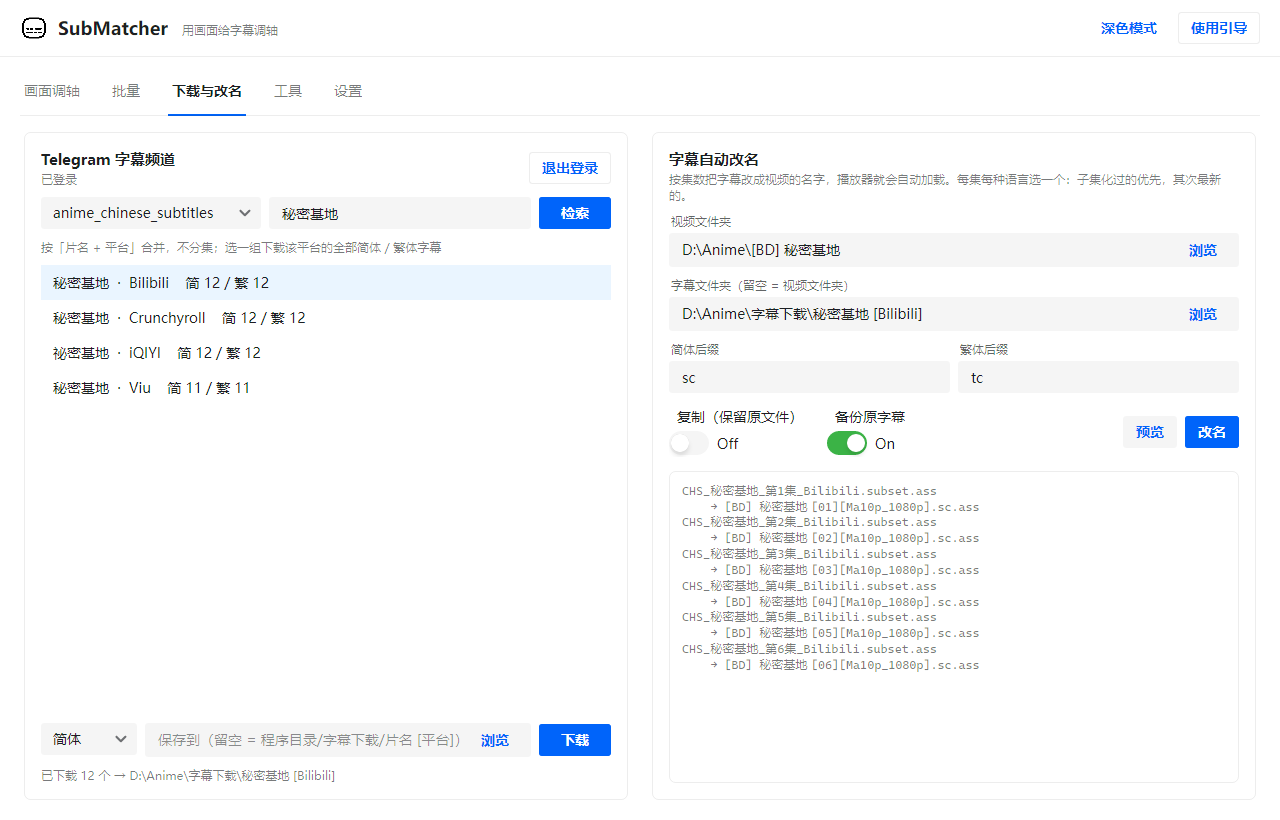
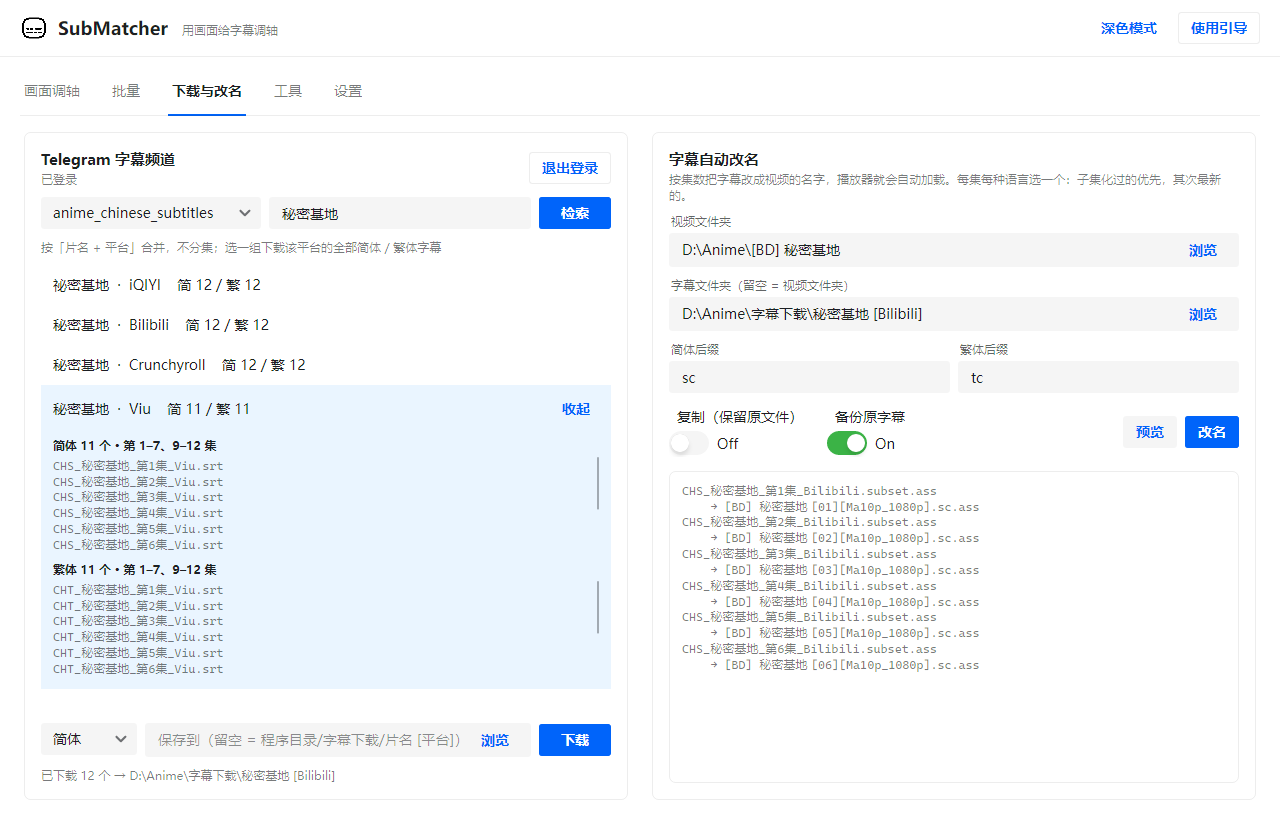
字幕检索：合并更多命名方式；结果可展开查看文件、收起
- 合并规则：认得语言写在末尾的文件名
  - 「葬送的芙莉莲_EP14.BG.zh-Hans.srt」：.zh-Hans / .zh-Hant 是语言，点号分隔的 BG 是平台，不再每个文件单独成组
  - 「葬送的芙莉莲 12_简体中文.srt」：「简体中文 / 繁体中文」是语言不是平台，简繁合成一组
  - 实测「葬送的芙莉莲」从 12 组合并为 6 组（第二季仍单独成组）
- 检索结果交互：点某一组展开，按简体 / 繁体列出文件，并显示集数摘要（如「第 1–7、9–12 集」，缺集一眼可见）；
  右侧「收起」按钮折叠，再点这一行重新展开；选另一组时上一组自动折叠；文件列表限高，其余结果保持在视野里
- 组内文件按集数排序（第 2 集在第 10 集前）
- 命令行 tg search 加 --files，列出每组包含的文件
- 测试：新增真实文件名的解析用例、集数排序与缺集摘要、GUI 展开 / 收起（鼠标点击模拟），共 55 个；README 截图更新

Changed region(s): [[0.0312, 0.3354, 0.25, 0.8232], [0.4375, 0.4878, 0.4688, 0.5183]]

diff --git a/src/SubMatcher.Gui/MainWindow.Subs.cs b/src/SubMatcher.Gui/MainWindow.Subs.cs
@@ -7,6 +7,7 @@ using Avalonia.Interactivity;
 using Avalonia.Media.Imaging;
 using Avalonia.Platform;
 using Avalonia.Threading;
+using Avalonia.VisualTree;
 using SubMatcher.Core;
 
 namespace SubMatcher.Gui;
@@ -230,13 +231,76 @@ public partial class MainWindow
             // Progress must be created here on the UI thread: inside Task.Run it would call back on the thread pool.
             var found = new Progress<int>(n => TgLog.Text = $"检索中… {n} 个文件");
             var files = await Task.Run(() => tg.Search(channel, q, found));
-            _groups = TgSubs.Group(files);
-            TgGroups.ItemsSource = _groups.Select(Describe).ToList();
-            TgGroups.SelectedIndex = _groups.Count > 0 ? 0 : -1;
+            ShowGroups(TgSubs.Group(files));
             TgLog.Text = _groups.Count == 0 ? "没找到。换个关键词，简体 / 繁体片名都试试" : $"{files.Count} 个文件，合并为 {_groups.Count} 组";
         }
         catch (Exception ex) when (ex is not OperationCanceledException) { TgLog.Text = "检索失败：" + ex.Message; }
         finally { TgSearchBtn.IsEnabled = TgDownloadBtn.IsEnabled = true; }
+    }
+
+    /// <summary>Result list: one row per group; the selected row expands to list its files, "收起" folds it back.</summary>
+    internal void ShowGroups(List<TgGroup> groups)
+    {
+        _groups = groups;
+        TgGroups.ItemsSource = groups.Select(GroupItem).ToList();
+        TgGroups.SelectedIndex = groups.Count > 0 ? 0 : -1;
+    }
+
+    Control GroupItem(TgGroup g)
+    {
+        var detail = new StackPanel { Spacing = 4, Margin = new(0, 8, 0, 4), IsVisible = false };
+        foreach (var (label, files) in new[] { ("简体", g.Chs), ("繁体", g.Cht), ("其他", g.Other) })
+        {
+            if (files.Count == 0) continue;
+            var eps = TgSubs.EpisodeSummary(files);
+            detail.Children.Add(new TextBlock
+            {
+                Text = $"{label} {files.Count} 个{(eps.Length > 0 ? " · " + eps : "")}", FontWeight = Avalonia.Media.FontWeight.SemiBold, FontSize = 12,
+                Margin = new(0, 4, 0, 0), TextWrapping = Avalonia.Media.TextWrapping.Wrap,
+            });
+            var list = new SelectableTextBlock
+            {
+                Text = string.Join("\n", files.Select(f => f.Name)), FontSize = 12, TextWrapping = Avalonia.Media.TextWrapping.Wrap,
+                FontFamily = new Avalonia.Media.FontFamily("Cascadia Mono,Consolas,Menlo,monospace"),
+            };
+            list.Bind(TextBlock.ForegroundProperty, list.GetResourceObservable("SemiColorText2"));
+            // A season is dozens of names: keep the row short so the other results stay in view.
+            detail.Children.Add(new ScrollViewer { Content = list, MaxHeight = 96 });
+        }
+        var collapse = new Button
+        {
+            Content = "收起", Theme = this.FindResource("BorderlessButton") as Avalonia.Styling.ControlTheme,
+            Padding = new(8, 0), IsVisible = false, VerticalAlignment = Avalonia.Layout.VerticalAlignment.Center,
+        };
+        var header = new Avalonia.Controls.Grid { ColumnDefinitions = new("*,Auto"), MinHeight = 24 };
+        header.Children.Add(new TextBlock { Text = Describe(g), VerticalAlignment = Avalonia.Layout.VerticalAlignment.Center, TextTrimming = Avalonia.Media.TextTrimming.CharacterEllipsis });
+        Avalonia.Controls.Grid.SetColumn(collapse, 1);
+        header.Children.Add(collapse);
+        var item = new StackPanel { Children = { header, detail } };
+        collapse.Click += (_, e) => { SetExpanded(item, false); e.Handled = true; };
+        // Tapping a folded row (already selected, so no SelectionChanged) opens it again.
+        item.Tapped += (_, e) =>
+        {
+            if (e.Source is Visual v && v.FindAncestorOfType<Button>(true) == collapse) return;
+            if (!detail.IsVisible) SetExpanded(item, true);
+        };
+        return item;
+    }
+
+    static void SetExpanded(StackPanel item, bool on)
+    {
+        var detail = item.Children[1];
+        if (detail.IsVisible == on) return;
+        detail.IsVisible = on;
+        ((Avalonia.Controls.Grid)item.Children[0]).Children[1].IsVisible = on;
+        if (on) _ = new DropDownReveal { Duration = TimeSpan.FromMilliseconds(160) }.Start(null, detail, true, default);
+    }
+
+    void TgGroupSelected(object? sender, SelectionChangedEventArgs e)
+    {
+        e.Handled = true; // don't bubble up to the tab control
+        foreach (var item in (TgGroups.ItemsSource as IEnumerable<Control>)?.OfType<StackPanel>() ?? [])
+            SetExpanded(item, item == TgGroups.SelectedItem);
     }
 
     async void TgDownload(object? sender, RoutedEventArgs e)

diff --git a/tests/SubMatcher.Tests/GuiTests.cs b/tests/SubMatcher.Tests/GuiTests.cs
@@ -238,16 +238,43 @@ public class GuiTests
 
         if (Environment.GetEnvironmentVariable("SUBMATCHER_SHOTS") is { } shots)
         {
-            w.FindControl<ListBox>("TgGroups")!.ItemsSource = new[]
-            {
-                "遭到流放的转生重骑士凭借游戏知识大开无双  ·  Viu    简 13 / 繁 13",
-                "遭到流放的轉生重騎士憑藉遊戲知識大開無雙  ·  iQIYI    简 13 / 繁 13",
-                "遭到流放的转生重骑士凭借游戏知识大开无双  ·  meWATCH    简 13 / 繁 13",
-            };
-            w.FindControl<ListBox>("TgGroups")!.SelectedIndex = 0;
             Pump();
             Save(w, shots, "subs-page.png");
         }
+    }
+
+    [AvaloniaFact]
+    public void SearchResultsExpandAndCollapse()
+    {
+        var w = NewWindow(tourDone: true);
+        w.FindControl<TabControl>("Tabs")!.SelectedItem = w.FindControl<TabItem>("TabSubs");
+        Pump();
+        w.ShowGroups(TgSubs.Group([
+            new(1, "CHS 葬送的芙莉莲 01_meWATCH.srt", 1), new(2, "CHT 葬送的芙莉莲 01_meWATCH.srt", 1),
+            new(3, "葬送的芙莉莲_EP01.BG.zh-Hans.srt", 1), new(4, "葬送的芙莉莲_EP01.BG.zh-Hant.srt", 1),
+        ]));
+        Pump();
+        var list = w.FindControl<ListBox>("TgGroups")!;
+        var items = ((IEnumerable<Control>)list.ItemsSource!).Cast<StackPanel>().ToList();
+        Assert.Equal(2, items.Count);
+        bool Open(StackPanel p) => p.Children[1].IsVisible;
+        Button Fold(StackPanel p) => (Button)((Grid)p.Children[0]).Children[1];
+        void ClickAt(Visual v, double x, double y)
+        {
+            var pt = v.TranslatePoint(new Avalonia.Point(x, y), w)!.Value;
+            w.MouseDown(pt, MouseButton.Left); w.MouseUp(pt, MouseButton.Left); Pump();
+        }
+        Assert.True(Open(items[0]));   // first result opens with its file list
+        Assert.Contains("CHS 葬送的芙莉莲 01_meWATCH.srt", ((SelectableTextBlock)items[0].Children[1].GetVisualDescendants().OfType<SelectableTextBlock>().First()).Text);
+        ClickAt(Fold(items[0]), 5, 5); // 收起
+        Assert.False(Open(items[0]));
+        Assert.Equal(0, list.SelectedIndex); // still the download target
+        ClickAt(items[0], 10, 8);      // tap the folded row → open again
+        Assert.True(Open(items[0]));
+        ClickAt(items[1], 10, 8);      // another row: it opens, the first folds
+        Assert.Equal(1, list.SelectedIndex);
+        Assert.True(Open(items[1]));
+        Assert.False(Open(items[0]));
     }
 
     static void Save(Window w, string dir, string name) => w.CaptureRenderedFrame()?.Save(Path.Combine(dir, name));
@@ -306,13 +333,15 @@ public class GuiTests
             w.FindControl<TextBlock>("TgStatus")!.Text = "已登录";
             w.FindControl<Button>("TgLoginBtn")!.Content = "退出登录";
             w.FindControl<TextBox>("TgQuery")!.Text = "秘密基地";
-            var groups = w.FindControl<ListBox>("TgGroups")!;
-            groups.ItemsSource = new[]
-            {
-                "秘密基地  ·  Bilibili    简 12 / 繁 12", "秘密基地  ·  Crunchyroll    简 12 / 繁 12",
-                "祕密基地  ·  iQIYI    简 12 / 繁 12", "秘密基地  ·  Viu    简 11 / 繁 11",
-            };
-            groups.SelectedIndex = 0;
+            // a realistic result: 12 episodes on 4 platforms, the first one expanded
+            List<TgFile> files = [];
+            foreach (var (plat, title, n) in new[] { ("Bilibili", "秘密基地", 12), ("Crunchyroll", "秘密基地", 12), ("iQIYI", "祕密基地", 12), ("Viu", "秘密基地", 12) })
+                for (int ep = 1; ep <= n; ep++)
+                    if (plat != "Viu" || ep != 8) // one missing episode, to show the gap in the summary
+                    foreach (var lang in new[] { "CHS", "CHT" })
+                        files.Add(new(files.Count, $"{lang}_{title}_第{ep}集_{plat}.srt", 30000));
+            w.ShowGroups(TgSubs.Group(files));
+            w.FindControl<ListBox>("TgGroups")!.SelectedIndex = 3; // Viu, the one with a missing episode
             w.FindControl<TextBlock>("TgLog")!.Text = @"已下载 12 个 → D:\Anime\字幕下载\秘密基地 [Bilibili]";
             w.FindControl<TextBox>("RenVideos")!.Text = @"D:\Anime\[BD] 秘密基地";
             w.FindControl<TextBox>("RenSubs")!.Text = @"D:\Anime\字幕下载\秘密基地 [Bilibili]";

diff --git a/src/SubMatcher.Core/Telegram.cs b/src/SubMatcher.Core/Telegram.cs
@@ -26,8 +26,15 @@ public static partial class TgSubs
     [GeneratedRegex(@"^\s*(CHS|CHT|简|簡|繁)[\s_\-]+", RegexOptions.IgnoreCase)]
     private static partial Regex LangPrefix();
 
+    // Language as the last part instead: "…_EP14.BG.zh-Hans", "… 12_简体中文", "….sc"
+    [GeneratedRegex(@"[\s_.\-]+(zh-?Hans|zh-?CN|zh-?SG|chs|sc|简体中文|簡體中文|简体|簡體|简中|簡中|zh-?Hant|zh-?TW|zh-?HK|cht|tc|繁体中文|繁體中文|繁体|繁體|繁中)$", RegexOptions.IgnoreCase)]
+    private static partial Regex LangSuffix();
+
+    [GeneratedRegex(@"^(zh-?Hans|zh-?CN|zh-?SG|chs|sc|简|簡)", RegexOptions.IgnoreCase)]
+    private static partial Regex SimplifiedTag();
+
     // Episode marks at the end of the title: 第13集 / 第7話 / EP12 / E05 / 12 / 12.5 / 12v2
-    [GeneratedRegex(@"[\s_\-]*(?:第\s*\d+(?:\.\d+)?\s*[話话集回]|EP?\s*\d+(?:\.\d+)?|\d+(?:\.\d+)?)(?:v\d)?\s*$", RegexOptions.IgnoreCase)]
+    [GeneratedRegex(@"[\s_.\-]*(?:第\s*\d+(?:\.\d+)?\s*[話话集回]|EP?\s*\d+(?:\.\d+)?|\d+(?:\.\d+)?)(?:v\d)?\s*$", RegexOptions.IgnoreCase)]
     private static partial Regex EpisodeTail();
 
     [GeneratedRegex(@"[\s_]+")]
@@ -43,16 +50,43 @@ public static partial class TgSubs
             lang = m.Groups[1].Value.ToUpperInvariant() switch { "CHS" or "简" or "簡" => "CHS", _ => "CHT" };
             name = name[m.Length..];
         }
+        else if (LangSuffix().Match(name) is { Success: true } s)
+        {
+            lang = SimplifiedTag().IsMatch(s.Groups[1].Value) ? "CHS" : "CHT";
+            name = name[..s.Index];
+        }
         string platform = "";
-        int us = name.LastIndexOf('_');
-        // "…_iQIYI" is a platform, "…_第13集" / "…_12" is not
-        if (us > 0 && EpisodeTail().Match(name[us..]) is not { Success: true, Index: 0 })
+        // platform after the last "_" or "." ("…_iQIYI", "…_EP14.BG"); "…_第13集" / "…_12" is not one
+        int us = name.LastIndexOfAny(['_', '.']);
+        if (us > 0 && name[(us + 1)..].Any(char.IsLetter) && EpisodeTail().Match(name[us..]) is not { Success: true, Index: 0 })
         {
             platform = name[(us + 1)..].Trim();
             name = name[..us];
         }
         var title = Spaces().Replace(EpisodeTail().Replace(name, ""), " ").Trim(' ', '-', '_');
         return (lang, title.Length > 0 ? title : name.Trim(), platform);
+    }
+
+    static double EpisodeNum(TgFile f) => Sync.EpisodeOf(f.Name) is { } e ? double.Parse(e, System.Globalization.CultureInfo.InvariantCulture) : double.MaxValue;
+
+    /// <summary>Files in episode order (第2集 before 第10集).</summary>
+    public static List<TgFile> ByEpisode(IEnumerable<TgFile> files) =>
+        files.OrderBy(EpisodeNum).ThenBy(f => f.Name, StringComparer.OrdinalIgnoreCase).ToList();
+
+    /// <summary>"第 1–7、9–12 集" — gaps show at a glance; "" when no episode numbers are found.</summary>
+    public static string EpisodeSummary(IEnumerable<TgFile> files)
+    {
+        var eps = files.Select(EpisodeNum).Where(e => e != double.MaxValue).Distinct().Order().ToList();
+        if (eps.Count == 0) return "";
+        var parts = new List<string>();
+        for (int i = 0; i < eps.Count;)
+        {
+            int j = i;
+            while (j + 1 < eps.Count && eps[j + 1] == eps[j] + 1) j++;
+            parts.Add(j == i ? $"{eps[i]}" : $"{eps[i]}–{eps[j]}");
+            i = j + 1;
+        }
+        return $"第 {string.Join("、", parts)} 集";
     }
 
     /// <summary>Merge search hits by (title, platform). Reposted files keep only the newest copy.</summary>
@@ -64,7 +98,7 @@ public static partial class TgSubs
             .GroupBy(x => (x.P.Title.ToLowerInvariant(), x.P.Platform.ToLowerInvariant()))
             .Select(g =>
             {
-                List<TgFile> Of(string lang) => g.Where(x => x.P.Lang == lang).Select(x => x.File).OrderBy(f => f.Name, StringComparer.OrdinalIgnoreCase).ToList();
+                List<TgFile> Of(string lang) => ByEpisode(g.Where(x => x.P.Lang == lang).Select(x => x.File));
                 var first = g.First().P;
                 return new TgGroup(first.Title, first.Platform, Of("CHS"), Of("CHT"), Of(""));
             })

diff --git a/src/SubMatcher.Cli/Program.cs b/src/SubMatcher.Cli/Program.cs
@@ -152,7 +152,10 @@ try
             if (sub == "search")
             {
                 for (int i = 0; i < groups.Count; i++)
-                    Console.WriteLine($"{i + 1,3}. {groups[i].Title}  [{(groups[i].Platform is { Length: > 0 } pl ? pl : "未知平台")}]  简 {groups[i].Chs.Count} / 繁 {groups[i].Cht.Count}{(groups[i].Other.Count > 0 ? $" / 其他 {groups[i].Other.Count}" : "")}");
+                {
+                        Console.WriteLine($"{i + 1,3}. {groups[i].Title}  [{(groups[i].Platform is { Length: > 0 } pl ? pl : "未知平台")}]  简 {groups[i].Chs.Count} / 繁 {groups[i].Cht.Count}{(groups[i].Other.Count > 0 ? $" / 其他 {groups[i].Other.Count}" : "")}");
+                    if (Flag("files")) foreach (var f in (List<TgFile>)[.. groups[i].Chs, .. groups[i].Cht, .. groups[i].Other]) Console.WriteLine($"       {f.Name}");
+                }
                 return 0;
             }
             if (sub != "download") { Usage(); return 2; }
@@ -277,7 +280,7 @@ static void Need(List<string> pos, int n, string usage)
 
 static (List<string>, Dictionary<string, string>) ParseArgs(string[] a)
 {
-    string[] flags = ["no-snap", "hwaccel", "no-cache", "no-log", "subset", "r", "recursive", "in-place", "strict", "clean", "copy", "no-backup", "dry-run"];
+    string[] flags = ["no-snap", "hwaccel", "no-cache", "no-log", "subset", "r", "recursive", "in-place", "strict", "clean", "copy", "no-backup", "dry-run", "files"];
     var pos = new List<string>();
     var opt = new Dictionary<string, string>();
     for (int i = 0; i < a.Length; i++)
@@ -322,7 +325,7 @@ static void Usage() => Console.WriteLine("""
         简繁转换（繁化姬 https://zhconvert.org）：sc 简体化 / tc 繁体化 / cn 中国化 / tw 台湾化 / hk 香港化
         输出文件名里的语言标记会跟着换（CHS→CHT、.sc→.tc），没有标记就加上
     submatcher-cli tg login [--phone +86…] | logout      Telegram 扫码或手机号登录 / 退出（会话存在程序目录）
-    submatcher-cli tg search <关键词> [--channel anime_chinese_subtitles] [--proxy socks5://主机:端口]
+    submatcher-cli tg search <关键词> [--files] [--channel anime_chinese_subtitles] [--proxy socks5://主机:端口]
         在字幕频道里检索，按「片名 + 平台」合并，列出简/繁数量（不分集）
     submatcher-cli tg download <关键词> [--pick N] [--lang sc|tc|all] [-o 目录]
         下载第 N 组的简体/繁体/全部字幕

diff --git a/tests/SubMatcher.Tests/SubsTests.cs b/tests/SubMatcher.Tests/SubsTests.cs
@@ -13,6 +13,13 @@ public class SubsTests
     [InlineData("CHS 終末起點第二季  05_Bilibili.srt", "CHS", "終末起點第二季", "Bilibili")]
     [InlineData("CHS 尼古喵喵 EP12_iQIYI.srt", "CHS", "尼古喵喵", "iQIYI")]
     [InlineData("某番_第03集.srt", "", "某番", "")]
+    [InlineData("葬送的芙莉莲_EP14.BG.zh-Hans.srt", "CHS", "葬送的芙莉莲", "BG")]
+    [InlineData("葬送的芙莉莲_EP09.BG.zh-Hant.srt", "CHT", "葬送的芙莉莲", "BG")]
+    [InlineData("葬送的芙莉莲 12_简体中文.srt", "CHS", "葬送的芙莉莲", "")]
+    [InlineData("葬送的芙莉莲 12_繁体中文.srt", "CHT", "葬送的芙莉莲", "")]
+    [InlineData("CHS 葬送的芙莉莲2 05_meWATCH.srt", "CHS", "葬送的芙莉莲2", "meWATCH")]
+    [InlineData("CHS_片名_12.5.srt", "CHS", "片名", "")]
+    [InlineData("CHS_Dr.STONE_第1集_Bilibili.srt", "CHS", "Dr.STONE", "Bilibili")]
     public void ParsesChannelFileNames(string name, string lang, string title, string platform)
         => Assert.Equal((lang, title, platform), TgSubs.Parse(name));
 
@@ -31,6 +38,16 @@ public class SubsTests
         Assert.Equal([1, 4], viu.Chs.Select(f => f.Id));
         Assert.Equal([2], viu.Cht.Select(f => f.Id)); // 繁 title merged into the 简 one
         Assert.Contains(g, x => x.Platform == "meWATCH" && x.Chs.Count == 1);
+    }
+
+    [Fact]
+    public void EpisodeOrderAndGaps()
+    {
+        List<TgFile> files = [.. new[] { 10, 2, 1, 3, 12, 11, 5, 4, 6, 7, 9 }.Select(e => new TgFile(e, $"CHS_片名_第{e}集_Viu.srt", 1))];
+        Assert.Equal([1, 2, 3, 4, 5, 6, 7, 9, 10, 11, 12], TgSubs.ByEpisode(files).Select(f => f.Id));
+        Assert.Equal("第 1–7、9–12 集", TgSubs.EpisodeSummary(files));
+        Assert.Equal("第 5 集", TgSubs.EpisodeSummary([new(1, "葬送的芙莉莲_EP05.BG.zh-Hans.srt", 1)]));
+        Assert.Equal("", TgSubs.EpisodeSummary([new(1, "合集.zip", 1)]));
     }
 
     [Fact]

diff --git a/docs/cli.md b/docs/cli.md
@@ -195,6 +195,7 @@ submatcher-cli tg download 遭到流放 --pick 1 --lang sc -o ./subs
 
 | 参数 | 说明 |
 |---|---|
+| `--files` | search 时列出每组包含的文件 |
 | `--channel <名字>` | 频道，默认 `anime_chinese_subtitles`；合辑 / 旧番 `anime_chinese_subtitles_old`，非日本动画 `chinese_subtitles` |
 | `--pick N` | 下载第 N 组（只有一组时可以不写） |
 | `--lang sc\|tc\|all` | 简体 / 繁体 / 全部，默认全部 |
